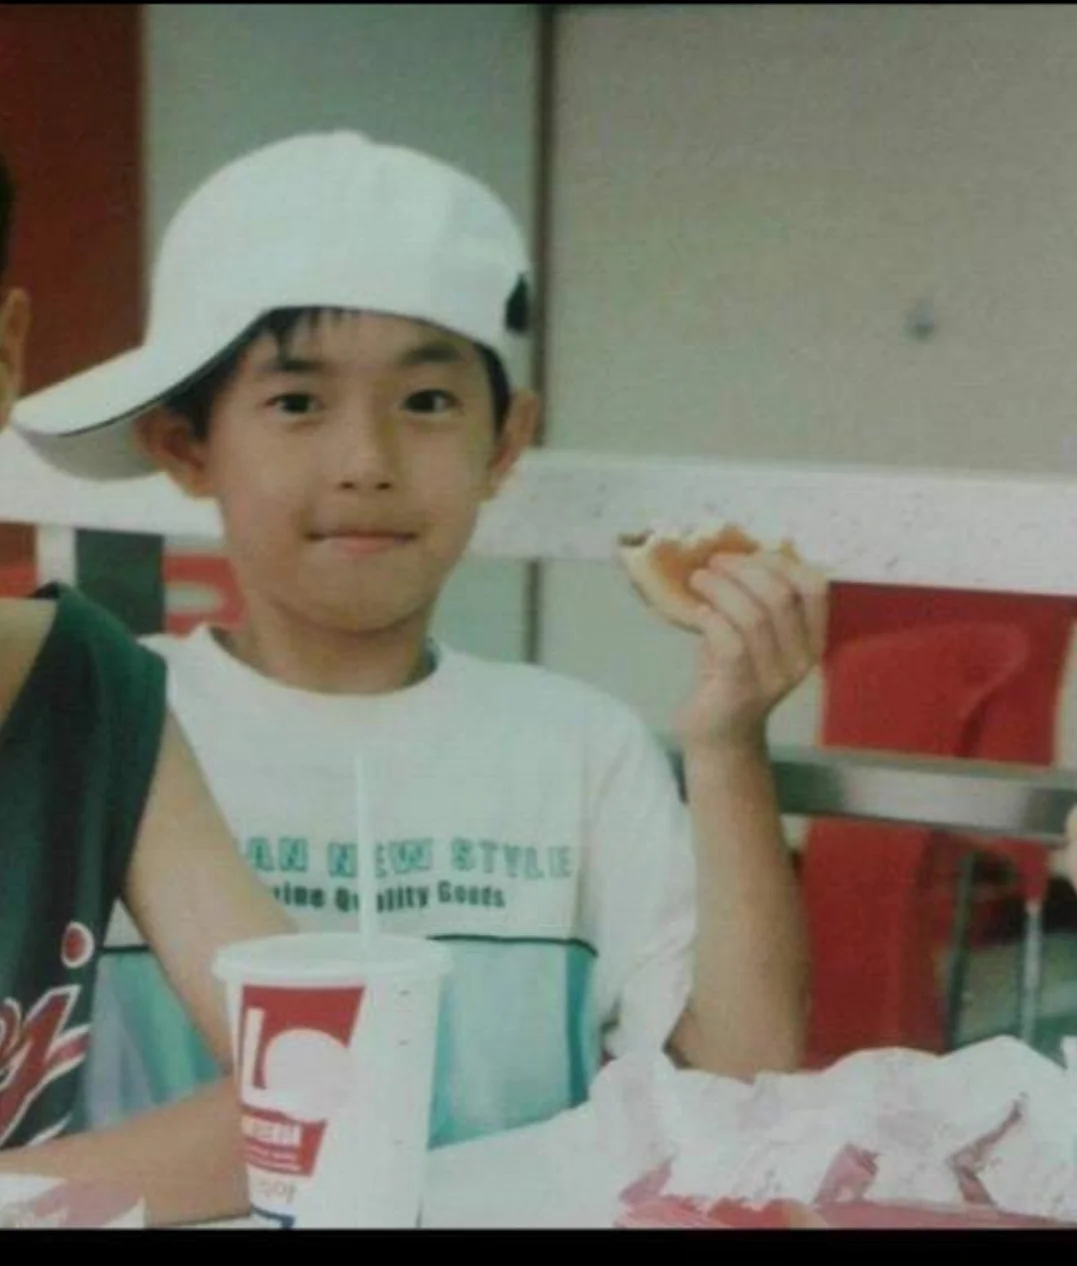
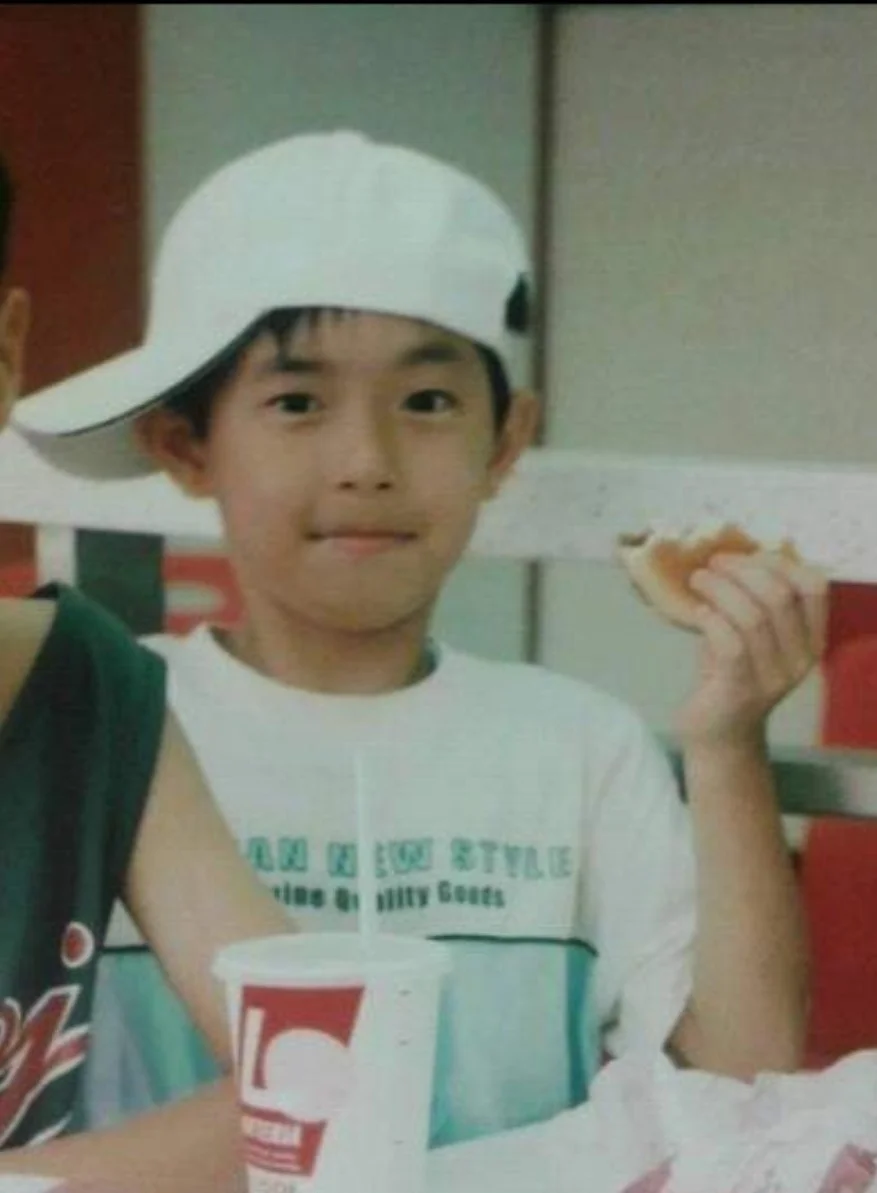
Add countdown timer, update photos and backgrounds, remove album
- Add countdown section (days/hours/minutes/seconds) above Page6
- Replace 4-1 and 4-2 photos, add them side-by-side on Page3
- Remove album spread from Page3
- Change Page1 and Page3 background to #f8f7f2
- Restore Page4 gallery as card style
- Update map image

diff --git a/src/pages/Page3FamilyLetter.tsx b/src/pages/Page3FamilyLetter.tsx
@@ -1,22 +1,9 @@
-import { useState } from 'react';
 import { weddingData } from '../data/wedding';
 import ScrollReveal from '../components/ScrollReveal';
 
 const { groom, bride } = weddingData;
 
-const albumPhotos = [
-  '/images/page4/4-1.webp',
-  '/images/page4/4-2.webp',
-];
-
-const spreads: [string, string][] = [];
-for (let i = 0; i < albumPhotos.length; i += 2) {
-  spreads.push([albumPhotos[i], albumPhotos[i + 1] ?? albumPhotos[i]]);
-}
-
 export default function Page3FamilyLetter() {
-  const [spreadIndex, setSpreadIndex] = useState(0);
-  const currentSpread = spreads[spreadIndex];
 
   return (
     <div
@@ -28,95 +15,36 @@ export default function Page3FamilyLetter() {
         boxSizing: 'border-box',
       }}
     >
-      {/* Album with arrows */}
+      {/* Family photos */}
+      <ScrollReveal>
       <div style={{
         display: 'flex',
-        alignItems: 'center',
-        justifyContent: 'center',
-        padding: '0 8px',
+        gap: '12px',
         marginBottom: '32px',
       }}>
-        <button
-          onClick={() => setSpreadIndex((prev) => (prev - 1 + spreads.length) % spreads.length)}
+        <img
+          src="/images/page4/4-1.webp"
+          alt=""
           style={{
-            width: '32px',
-            height: '32px',
-            borderRadius: '50%',
-            border: 'none',
-            background: 'rgba(0,0,0,0.05)',
-            cursor: 'pointer',
-            display: 'flex',
-            alignItems: 'center',
-            justifyContent: 'center',
-            fontSize: '16px',
-            color: '#888',
-            flexShrink: 0,
+            width: '50%',
+            aspectRatio: '3 / 4',
+            objectFit: 'cover',
+            borderRadius: '4px',
           }}
-        >
-          ‹
-        </button>
-
-        <div style={{
-          flex: 1,
-          maxWidth: '360px',
-          backgroundImage: 'url(/images/page4/album-bg.webp)',
-          backgroundSize: '100% 100%',
-          backgroundRepeat: 'no-repeat',
-          aspectRatio: '2 / 1',
-          display: 'flex',
-          alignItems: 'center',
-          justifyContent: 'center',
-          gap: '12%',
-          padding: '6% 5%',
-          boxSizing: 'border-box',
-          margin: '0 8px',
-        }}>
-          <img
-            src={currentSpread[0]}
-            alt=""
-            style={{
-              width: '36%',
-              aspectRatio: '3 / 4',
-              objectFit: 'cover',
-              display: 'block',
-              borderRadius: '2px',
-              boxShadow: '0 2px 8px rgba(0,0,0,0.1)',
-            }}
-          />
-          <img
-            src={currentSpread[1]}
-            alt=""
-            style={{
-              width: '36%',
-              aspectRatio: '3 / 4',
-              objectFit: 'cover',
-              display: 'block',
-              borderRadius: '2px',
-              boxShadow: '0 2px 8px rgba(0,0,0,0.1)',
-            }}
-          />
-        </div>
-
-        <button
-          onClick={() => setSpreadIndex((prev) => (prev + 1) % spreads.length)}
+        />
+        <img
+          src="/images/page4/4-2.webp"
+          alt=""
           style={{
-            width: '32px',
-            height: '32px',
-            borderRadius: '50%',
-            border: 'none',
-            background: 'rgba(0,0,0,0.05)',
-            cursor: 'pointer',
-            display: 'flex',
-            alignItems: 'center',
-            justifyContent: 'center',
-            fontSize: '16px',
-            color: '#888',
-            flexShrink: 0,
+            width: '50%',
+            aspectRatio: '3 / 4',
+            objectFit: 'cover',
+            borderRadius: '4px',
           }}
-        >
-          ›
-        </button>
+        />
       </div>
+      </ScrollReveal>
+
       {/* Groom */}
       <ScrollReveal>
       <div style={{ textAlign: 'center', marginBottom: '32px' }}>

diff --git a/src/pages/Page7Countdown.tsx b/src/pages/Page7Countdown.tsx
@@ -1,0 +1,104 @@
+import { useState, useEffect } from 'react';
+import { weddingData } from '../data/wedding';
+import ScrollReveal from '../components/ScrollReveal';
+
+const weddingDate = new Date(weddingData.date);
+
+function getTimeLeft() {
+  const now = new Date();
+  const diff = weddingDate.getTime() - now.getTime();
+  if (diff <= 0) return { days: 0, hours: 0, minutes: 0, seconds: 0 };
+
+  return {
+    days: Math.floor(diff / (1000 * 60 * 60 * 24)),
+    hours: Math.floor((diff / (1000 * 60 * 60)) % 24),
+    minutes: Math.floor((diff / (1000 * 60)) % 60),
+    seconds: Math.floor((diff / 1000) % 60),
+  };
+}
+
+const months = ['January', 'February', 'March', 'April', 'May', 'June',
+  'July', 'August', 'September', 'October', 'November', 'December'];
+
+export default function Page7Countdown() {
+  const [timeLeft, setTimeLeft] = useState(getTimeLeft);
+
+  useEffect(() => {
+    const timer = setInterval(() => setTimeLeft(getTimeLeft()), 1000);
+    return () => clearInterval(timer);
+  }, []);
+
+  const month = months[weddingDate.getMonth()];
+  const day = weddingDate.getDate();
+  const year = weddingDate.getFullYear();
+
+  const units = [
+    { value: timeLeft.days, label: 'DAYS' },
+    { value: timeLeft.hours, label: 'HOURS' },
+    { value: timeLeft.minutes, label: 'MINUTES' },
+    { value: timeLeft.seconds, label: 'SECONDS' },
+  ];
+
+  return (
+    <ScrollReveal>
+    <div style={{
+      width: '100%',
+      padding: '48px 24px',
+      boxSizing: 'border-box',
+      textAlign: 'center',
+    }}>
+      <p style={{
+        fontFamily: "'Cormorant Garamond', serif",
+        fontSize: '14px',
+        fontWeight: 300,
+        color: '#888',
+        margin: '0 0 12px',
+        letterSpacing: '0.08em',
+      }}>
+        so please join us...
+      </p>
+
+      <p style={{
+        fontFamily: "'Cormorant Garamond', serif",
+        fontSize: '32px',
+        fontWeight: 400,
+        color: '#222',
+        margin: '0 0 4px',
+        letterSpacing: '0.05em',
+        textTransform: 'lowercase',
+      }}>
+        {month} {day}, {year}
+      </p>
+
+      <div style={{
+        display: 'flex',
+        justifyContent: 'center',
+        gap: '16px',
+        marginTop: '20px',
+      }}>
+        {units.map(({ value, label }) => (
+          <div key={label} style={{ minWidth: '48px' }}>
+            <p style={{
+              fontFamily: "'Cormorant Garamond', serif",
+              fontSize: '24px',
+              fontWeight: 400,
+              color: '#333',
+              margin: '0 0 2px',
+            }}>
+              {value}
+            </p>
+            <p style={{
+              fontSize: '9px',
+              color: '#999',
+              margin: 0,
+              letterSpacing: '0.1em',
+            }}>
+              {label}
+            </p>
+          </div>
+        ))}
+      </div>
+    </div>
+    </ScrollReveal>
+  );
+}

diff --git a/src/App.tsx b/src/App.tsx
@@ -8,6 +8,7 @@ import Page4Gallery from './pages/Page4Gallery';
 import Page5WeddingInfo from './pages/Page5WeddingInfo';
 import Page1Opening from './pages/Page1Opening';
 import Page6Account from './pages/Page6Account';
+import Page7Countdown from './pages/Page7Countdown';
 
 function WeddingPage() {
   const [showPopup, setShowPopup] = useState(false);
@@ -48,6 +49,7 @@ function WeddingPage() {
       <PageSection page={5}>
         <Page5WeddingInfo />
       </PageSection>
+      <Page7Countdown />
       <PageSection page={6}>
         <Page6Account />
       </PageSection>

diff --git a/src/pages/Page4Gallery.tsx b/src/pages/Page4Gallery.tsx
@@ -63,6 +63,19 @@ export default function Page4Gallery() {
   return (
     <ScrollReveal>
     <div style={{ width: '100%', padding: '24px 0' }}>
+      {/* Title */}
+      <h2 style={{
+        textAlign: 'center',
+        fontSize: '24px',
+        fontWeight: 400,
+        color: '#222',
+        margin: '0 0 28px',
+        fontFamily: "'Cormorant Garamond', serif",
+        letterSpacing: '0.15em',
+      }}>
+        Photo
+      </h2>
+
       {/* Collage */}
       <div style={{ padding: '24px 24px 48px' }}>
         {collages.map((photos, ci) => (

diff --git a/src/components/PageSection.tsx b/src/components/PageSection.tsx
@@ -16,11 +16,12 @@ interface PageSectionProps {
 }
 
 const pageBg: Record<number, string> = {
-  1: '#E9E7DA',
+  1: '#f8f7f2',
+  3: '#f8f7f2',
 };
 
 export default function PageSection({ page, children, style }: PageSectionProps) {
-  const noCard = page === 1 || page === 2 || page === 3 || page === 4 || page === 6;
+  const noCard = page === 1 || page === 2 || page === 3 || page === 6;
   const bg = pageBg[page];
 
   return (
